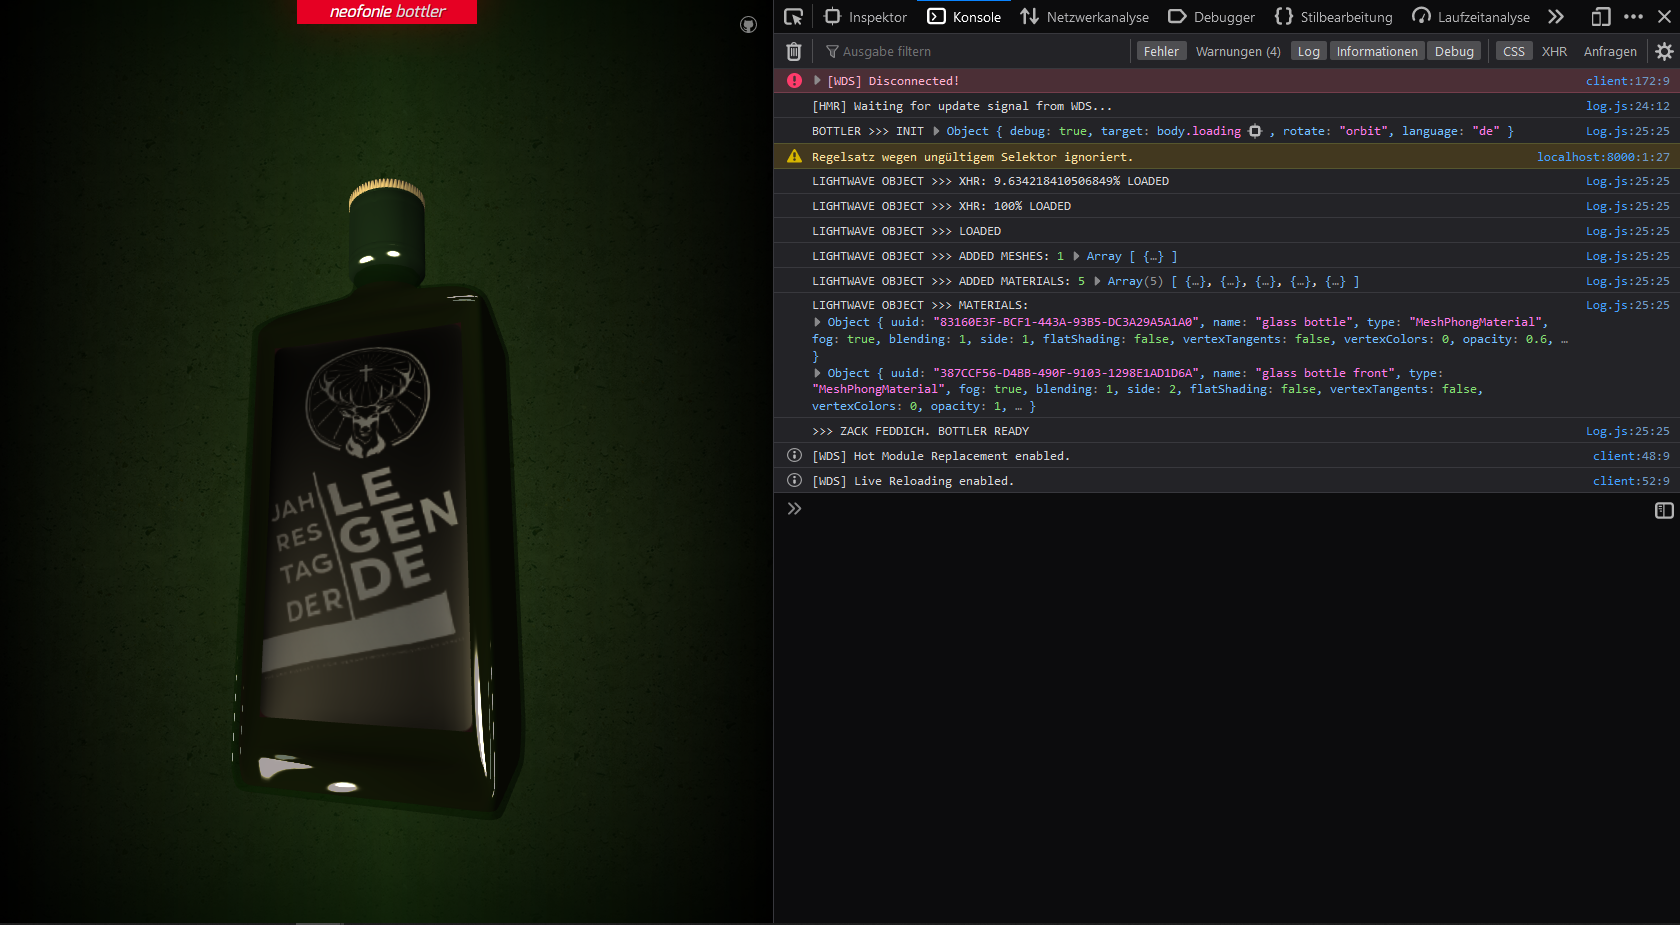
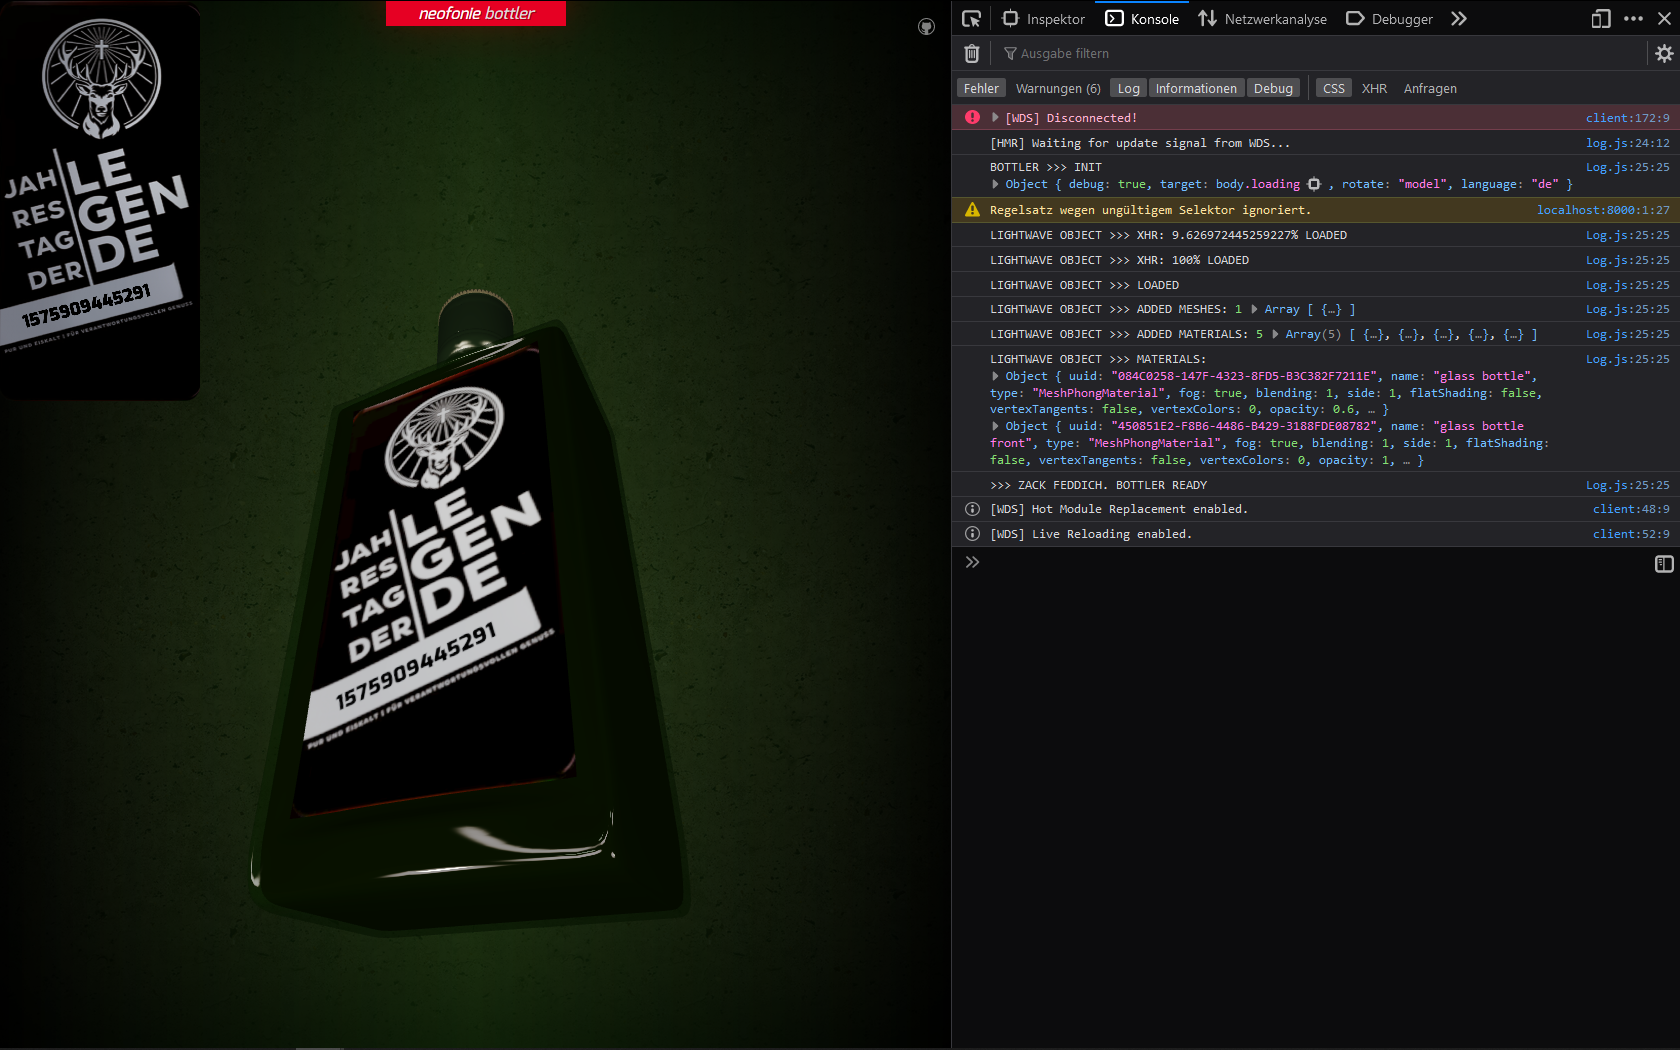
canvas texture mapping

diff --git a/src/lib/LightwaveObject.js b/src/lib/LightwaveObject.js
@@ -69,15 +69,17 @@ export default class extends Module {
         //this.bottleFrontLabelTexture = this.textureLoader.load("images/front01.png");
         //this.bottleFrontLabelTexture.encoding = THREE.sRGBEncoding;
         //this.bottleFrontLabelMaterial.map = this.bottleFrontLabelTexture;
-        //this.bottleFrontLabelMaterial.map.anisotropy = 0;
 
         this.initCanvas();
 
-        this.labelTexture = new THREE.Texture(this.canvas);
-        this.bottleFrontLabelMaterial.shading = THREE.SmoothShading;
-        this.bottleFrontLabelMaterial.map = this.labelTexture;
-        this.bottleFrontLabelMaterial.emissiveMap = this.labelTexture;
-        this.bottleFrontLabelMaterial.emissiveIntensity = 5; // this is for the brightness
+        this.labelCanvasTexture = new THREE.Texture(this.canvas);
+        this.bottleCanvasMaterial = this.bottleFrontLabelMaterial;
+
+        this.bottleCanvasMaterial.shading = THREE.SmoothShading;
+        this.bottleCanvasMaterial.map = this.labelCanvasTexture;
+        this.bottleCanvasMaterial.emissiveMap = this.labelCanvasTexture;
+        this.bottleCanvasMaterial.emissiveIntensity = 5; // this is for the brightness
+        this._.materials.push(this.bottleCanvasMaterial);
 
         console.log(this.label, '>>> MATERIALS:', this.bottleMaterial, this.bottleFrontLabelMaterial);
     }
@@ -87,6 +89,13 @@ export default class extends Module {
         this.canvas.width = 600;
         this.canvas.height = 1200;
         this.canvas.className = "bottle-label";
+        this.canvas.transparent = true;
+        this.canvasBackground = document.createElement('img');
+        this.canvasBackground.onload = () => {
+
+        };
+        this.canvasBackground.src = 'images/front01.png';
+
         document.querySelector('body').append(this.canvas);
         this.ctx = this.canvas.getContext('2d');
     }
@@ -94,20 +103,23 @@ export default class extends Module {
     drawCanvas() {
         if (!this.ctx)
             return;
+        this.ctx.save();
+        this.ctx.clearRect(0, 0, this.canvas.width, this.canvas.height);
+        this.ctx.drawImage(this.canvasBackground, 0, 0, 600, 1200);
 
+        this.ctx.translate(-370,460);
+        this.ctx.rotate(-Math.PI/12.5);
         this.ctx.fillStyle = 'black';
-        this.ctx.fillRect(0, 0, this.canvas.width, this.canvas.height);
-
-        this.ctx.fillStyle = 'white';
-        this.ctx.font = '40pt Arial';
-        this.ctx.textAlign = "center";
+        this.ctx.font = '40pt Exo-Black';
+        this.ctx.textAlign = "left";
         this.ctx.textBaseline = "middle";
         this.ctx.fillText(new Date().getTime(), this.canvas.width / 2, this.canvas.height / 2);
 
         // i dont know why, but it seems that this is a trigger.
         // maybe triggered with a setter
         // but it is needed to update the mapped texture
-        this.labelTexture.needsUpdate = true;
+        this.labelCanvasTexture.needsUpdate = true;
+        this.ctx.restore();
     }
 
     update() {

diff --git a/src/scss/mixins/typo.scss b/src/scss/mixins/typo.scss
@@ -13,6 +13,7 @@
 @include font-face('Exo', 'Exo-Medium', 'exo-webfont', 400);
 @include font-face('Exo', 'Exo-Bold', 'exo-webfont', 500);
 @include font-face('Exo', 'Exo-Black', 'exo-webfont', 800);
+@include font-face('Exo-Black', 'Exo-Black', 'exo-webfont', 800);
 
 $fs-xxs: 0.6em;
 $fs-xs: 0.7em;

diff --git a/src/scss/mixins/base.scss b/src/scss/mixins/base.scss
@@ -75,4 +75,5 @@ body {
     left: 0;
     z-index: 1000;
     width: 200px;
+    background: transparent;
 }
